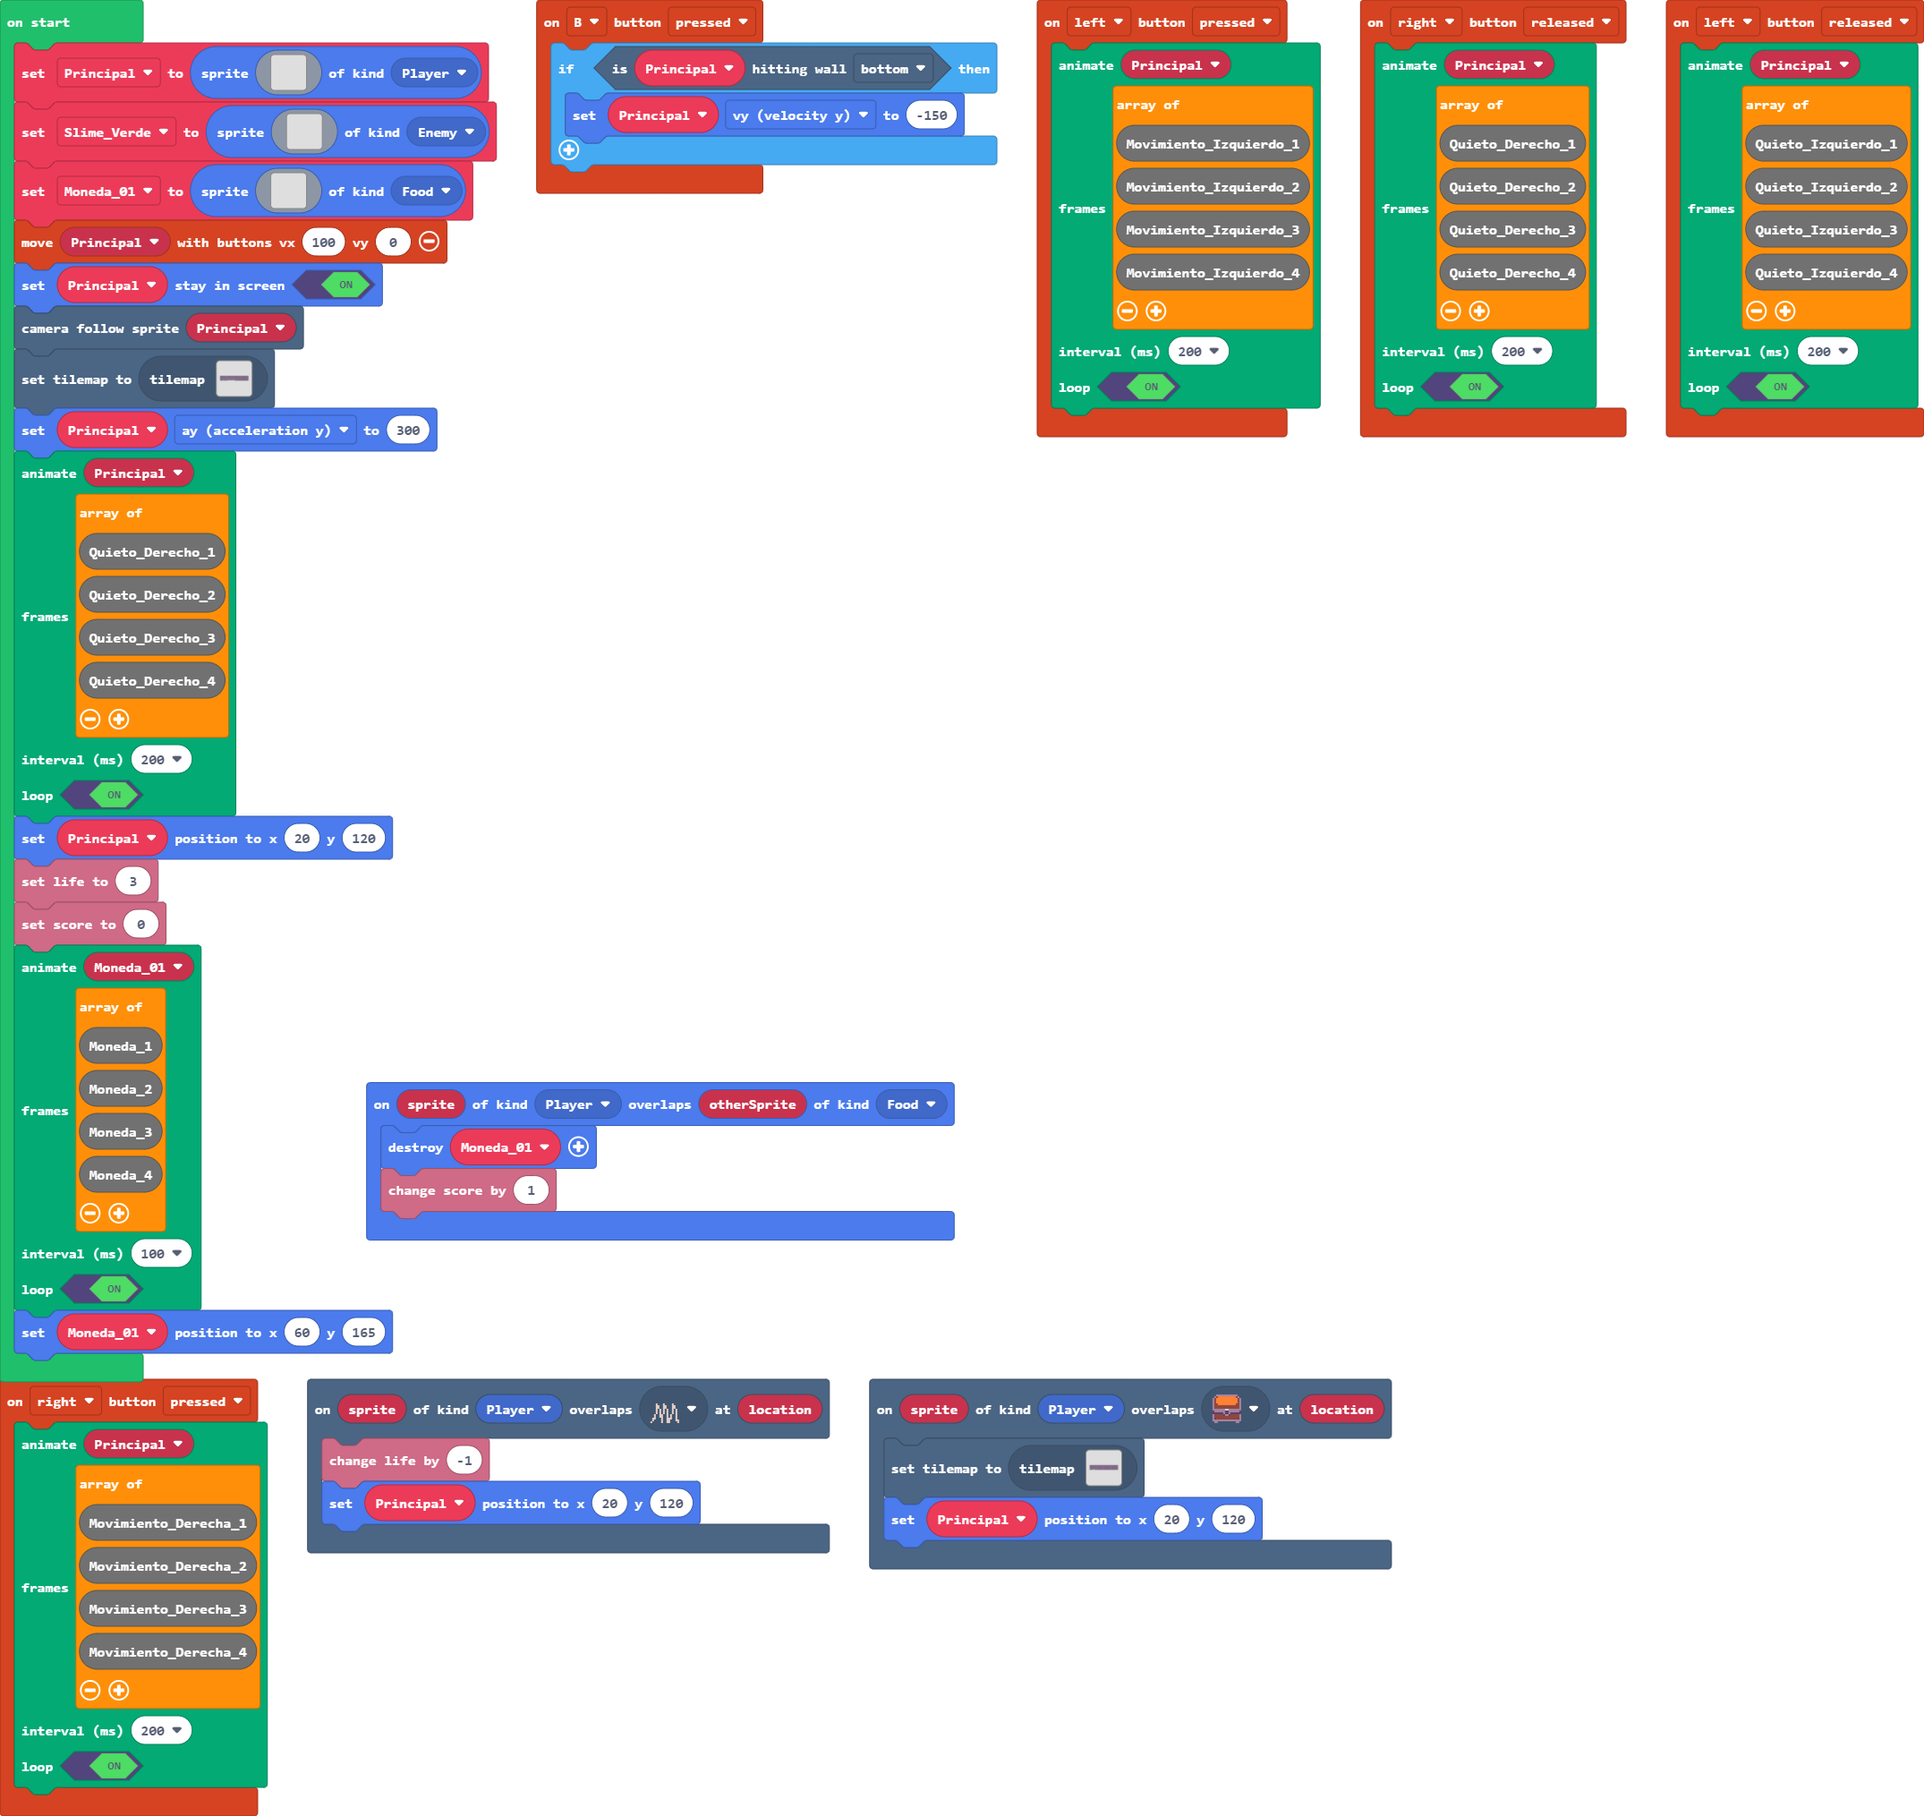
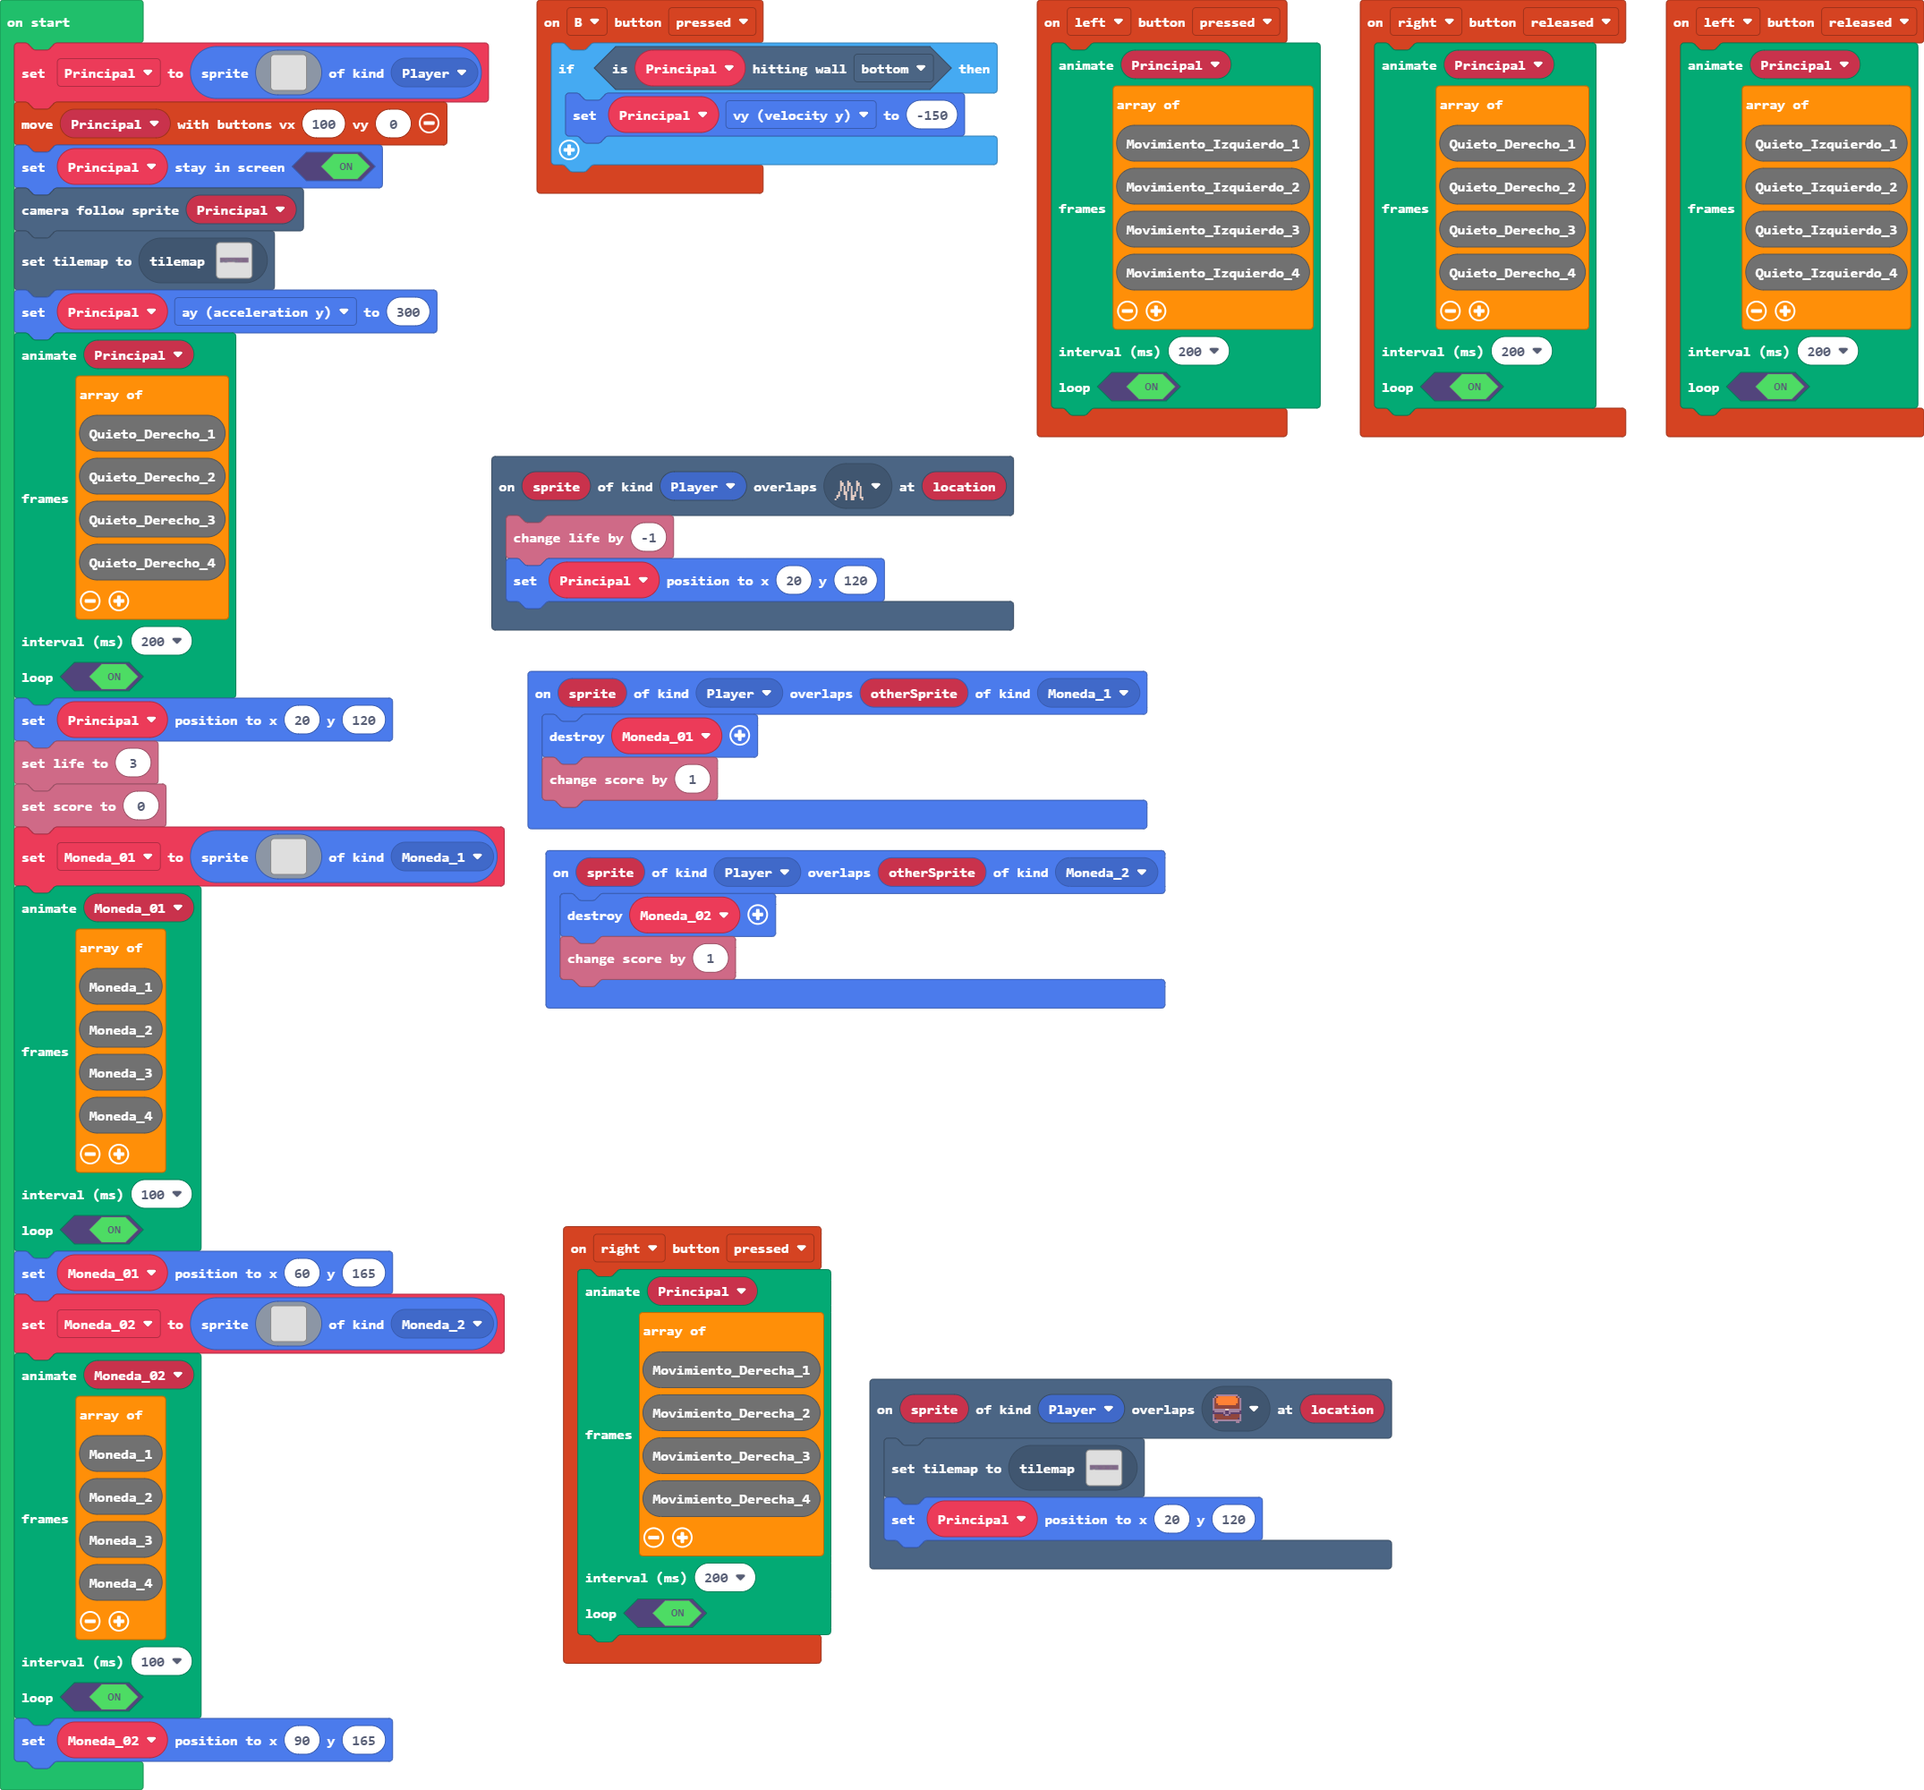
Update main.blocks, main.ts, tilemap.g.jres, tilemap.g.ts

diff --git a/tilemap.g.ts b/tilemap.g.ts
@@ -102,25 +102,6 @@ namespace myTiles {
 . . . . . . . . . . . . . . . . 
 . . . . . . . . . . . . . . . . 
 `, [myTiles.transparency16], TileScale.Sixteen);
-            case "Nivel 1":
[1 lines of base64/hex data omitted]
-....................................................................................................
-....................................................................................................
-....................................................................................................
-....................................................................................................
-....................................................................................................
-....................................................................................................
-....................................................................................................
-....................................222222..........................................................
-....................................222222..........................................................
-............................222222..................................................................
-............................222222..................................................................
-22222222222....22222222222..................222222..22222222222.....................................
-..........2....2.........2..................222222..2.........2.....................................
-..........2....2.........2..........................2.........2.....................................
-..........2....2.........2..........................2.........2.....................................
-..........2....2.........2..........................2.........2.....................................
-`, [myTiles.transparency16,sprites.dungeon.greenOuterNorthWest,sprites.dungeon.greenOuterWest0,sprites.dungeon.greenOuterNorth0,sprites.dungeon.greenOuterNorthEast,sprites.dungeon.greenOuterEast0,sprites.dungeon.greenOuterSouthEast,sprites.dungeon.greenOuterSouthWest,sprites.dungeon.greenOuterSouth0,sprites.dungeon.darkGroundCenter,sprites.dungeon.chestClosed,myTiles.tile1], TileScale.Sixteen);
             case "level7":
             case "level7":return tiles.createTilemap(hex`1000100000000000000000000000000000000000000000000000000000000000000000000000000000000000000000000000000000000000000000000000000000000000000000000000000000000000000000000000000000000000000000000000000000000000000000000000000000000000000000000000000000000000000000000000000000000000000000000000000000000000000000000000000000000000000000000000000000000000000000000000000000000000000000000000000000000000000000000000000000000000000000000000000000000000000000000000000000000000000000000000000000000000000000000000000000000000`, img`
 . . . . . . . . . . . . . . . . 
@@ -159,6 +140,82 @@ namespace myTiles {
 ...........2......2..........2......................................................................
 ...........2......2..........2......................................................................
 `, [myTiles.transparency16,myTiles.tile1,sprites.dungeon.darkGroundCenter,sprites.dungeon.greenOuterNorthWest,sprites.dungeon.greenOuterNorth0,sprites.dungeon.greenOuterNorthEast,sprites.dungeon.greenOuterWest1,sprites.dungeon.greenOuterEast0], TileScale.Sixteen);
+            case "level9":
+            case "level9":return tiles.createTilemap(hex`1000100000000000000000000000000000000000000000000000000000000000000000000000000000000000000000000000000000000000000000000000000000000000000000000000000000000000000000000000000000000000000000000000000000000000000000000000000000000000000000000000000000000000000000000000000000000000000000000000000000000000000000000000000000000000000000000000000000000000000000000000000000000000000000000000000000000000000000000000000000000000000000000000000000000000000000000000000000000000000000000000000000000000000000000000000000000000`, img`
+. . . . . . . . . . . . . . . . 
+. . . . . . . . . . . . . . . . 
+. . . . . . . . . . . . . . . . 
+. . . . . . . . . . . . . . . . 
+. . . . . . . . . . . . . . . . 
+. . . . . . . . . . . . . . . . 
+. . . . . . . . . . . . . . . . 
+. . . . . . . . . . . . . . . . 
+. . . . . . . . . . . . . . . . 
+. . . . . . . . . . . . . . . . 
+. . . . . . . . . . . . . . . . 
+. . . . . . . . . . . . . . . . 
+. . . . . . . . . . . . . . . . 
+. . . . . . . . . . . . . . . . 
+. . . . . . . . . . . . . . . . 
+. . . . . . . . . . . . . . . . 
+`, [myTiles.transparency16], TileScale.Sixteen);
+            case "level10":
+            case "level10":return tiles.createTilemap(hex`1000100000000000000000000000000000000000000000000000000000000000000000000000000000000000000000000000000000000000000000000000000000000000000000000000000000000000000000000000000000000000000000000000000000000000000000000000000000000000000000000000000000000000000000000000000000000000000000000000000000000000000000000000000000000000000000000000000000000000000000000000000000000000000000000000000000000000000000000000000000000000000000000000000000000000000000000000000000000000000000000000000000000000000000000000000000000000`, img`
+. . . . . . . . . . . . . . . . 
+. . . . . . . . . . . . . . . . 
+. . . . . . . . . . . . . . . . 
+. . . . . . . . . . . . . . . . 
+. . . . . . . . . . . . . . . . 
+. . . . . . . . . . . . . . . . 
+. . . . . . . . . . . . . . . . 
+. . . . . . . . . . . . . . . . 
+. . . . . . . . . . . . . . . . 
+. . . . . . . . . . . . . . . . 
+. . . . . . . . . . . . . . . . 
+. . . . . . . . . . . . . . . . 
+. . . . . . . . . . . . . . . . 
+. . . . . . . . . . . . . . . . 
+. . . . . . . . . . . . . . . . 
+. . . . . . . . . . . . . . . . 
+`, [myTiles.transparency16], TileScale.Sixteen);
+            case "Nivel 1":
[1 lines of base64/hex data omitted]
+....................................................................................................
+....................................................................................................
+....................................................................................................
+....................................................................................................
+....................................................................................................
+....................................................................................................
+....................................................................................................
+....................................222222..........................................................
+....................................222222..........................................................
+............................222222..................................................................
+............................222222..................................................................
+22222222222....22222222222..................222222..22222222222.....................................
+..........2....2.........2..................222222..2.........2.....................................
+..........2....2.........2..........................2.........2.....................................
+..........2....2.........2..........................2.........2.....................................
+..........2....2.........2..........................2.........2.....................................
+`, [myTiles.transparency16,sprites.dungeon.greenOuterNorthWest,sprites.dungeon.greenOuterWest0,sprites.dungeon.greenOuterNorth0,sprites.dungeon.greenOuterNorthEast,sprites.dungeon.greenOuterEast0,sprites.dungeon.greenOuterSouthEast,sprites.dungeon.greenOuterSouthWest,sprites.dungeon.greenOuterSouth0,sprites.dungeon.darkGroundCenter,sprites.dungeon.chestClosed,myTiles.tile1], TileScale.Sixteen);
+            case "level11":
+            case "level11":return tiles.createTilemap(hex`1000100000000000000000000000000000000000000000000000000000000000000000000000000000000000000000000000000000000000000000000000000000000000000000000000000000000000000000000000000000000000000000000000000000000000000000000000000000000000000000000000000000000000000000000000000000000000000000000000000000000000000000000000000000000000000000000000000000000000000000000000000000000000000000000000000000000000000000000000000000000000000000000000000000000000000000000000000000000000000000000000000000000000000000000000000000000000`, img`
+. . . . . . . . . . . . . . . . 
+. . . . . . . . . . . . . . . . 
+. . . . . . . . . . . . . . . . 
+. . . . . . . . . . . . . . . . 
+. . . . . . . . . . . . . . . . 
+. . . . . . . . . . . . . . . . 
+. . . . . . . . . . . . . . . . 
+. . . . . . . . . . . . . . . . 
+. . . . . . . . . . . . . . . . 
+. . . . . . . . . . . . . . . . 
+. . . . . . . . . . . . . . . . 
+. . . . . . . . . . . . . . . . 
+. . . . . . . . . . . . . . . . 
+. . . . . . . . . . . . . . . . 
+. . . . . . . . . . . . . . . . 
+. . . . . . . . . . . . . . . . 
+`, [myTiles.transparency16], TileScale.Sixteen);
         }
         return null;
     })

diff --git a/main.ts b/main.ts
@@ -1,11 +1,11 @@
+namespace SpriteKind {
+    export const Moneda_1 = SpriteKind.create()
+    export const Moneda_2 = SpriteKind.create()
+}
 controller.B.onEvent(ControllerButtonEvent.Pressed, function () {
     if (Principal.isHittingTile(CollisionDirection.Bottom)) {
         Principal.vy = -150
     }
-})
-scene.onOverlapTile(SpriteKind.Player, assets.tile`myTile`, function (sprite, location) {
-    info.changeLifeBy(-1)
-    Principal.setPosition(20, 120)
 })
 controller.left.onEvent(ControllerButtonEvent.Pressed, function () {
     animation.runImageAnimation(
@@ -63,10 +63,15 @@ controller.right.onEvent(ControllerButtonEvent.Pressed, function () {
     true
     )
 })
-sprites.onOverlap(SpriteKind.Player, SpriteKind.Food, function (sprite, otherSprite) {
+sprites.onOverlap(SpriteKind.Player, SpriteKind.Moneda_1, function (sprite, otherSprite) {
     sprites.destroy(Moneda_01)
     info.changeScoreBy(1)
 })
+sprites.onOverlap(SpriteKind.Player, SpriteKind.Moneda_2, function (sprite, otherSprite) {
+    sprites.destroy(Moneda_02)
+    info.changeScoreBy(1)
+})
+let Moneda_02: Sprite = null
 let Moneda_01: Sprite = null
 let Principal: Sprite = null
 Principal = sprites.create(img`
@@ -87,42 +92,6 @@ Principal = sprites.create(img`
     . . . . . . . . . . . . . . . . 
     . . . . . . . . . . . . . . . . 
     `, SpriteKind.Player)
-let Slime_Verde = sprites.create(img`
-    . . . . . . . . . . . . . . . . 
-    . . . . . . . . . . . . . . . . 
-    . . . . . . . . . . . . . . . . 
-    . . . . . . . . . . . . . . . . 
-    . . . . . . . . . . . . . . . . 
-    . . . . . . . . . . . . . . . . 
-    . . . . . . . . . . . . . . . . 
-    . . . . . . . . . . . . . . . . 
-    . . . . . . . . . . . . . . . . 
-    . . . . . . . . . . . . . . . . 
-    . . . . . . . . . . . . . . . . 
-    . . . . . . . . . . . . . . . . 
-    . . . . . . . . . . . . . . . . 
-    . . . . . . . . . . . . . . . . 
-    . . . . . . . . . . . . . . . . 
-    . . . . . . . . . . . . . . . . 
-    `, SpriteKind.Enemy)
-Moneda_01 = sprites.create(img`
-    . . . . . . . . . . . . . . . . 
-    . . . . . . . . . . . . . . . . 
-    . . . . . . . . . . . . . . . . 
-    . . . . . . . . . . . . . . . . 
-    . . . . . . . . . . . . . . . . 
-    . . . . . . . . . . . . . . . . 
-    . . . . . . . . . . . . . . . . 
-    . . . . . . . . . . . . . . . . 
-    . . . . . . . . . . . . . . . . 
-    . . . . . . . . . . . . . . . . 
-    . . . . . . . . . . . . . . . . 
-    . . . . . . . . . . . . . . . . 
-    . . . . . . . . . . . . . . . . 
-    . . . . . . . . . . . . . . . . 
-    . . . . . . . . . . . . . . . . 
-    . . . . . . . . . . . . . . . . 
-    `, SpriteKind.Food)
 controller.moveSprite(Principal, 100, 0)
 Principal.setStayInScreen(true)
 scene.cameraFollowSprite(Principal)
@@ -142,6 +111,24 @@ true
 Principal.setPosition(20, 120)
 info.setLife(3)
 info.setScore(0)
+Moneda_01 = sprites.create(img`
+    . . . . . . . . . . . . . . . . 
+    . . . . . . . . . . . . . . . . 
+    . . . . . . . . . . . . . . . . 
+    . . . . . . . . . . . . . . . . 
+    . . . . . . . . . . . . . . . . 
+    . . . . . . . . . . . . . . . . 
+    . . . . . . . . . . . . . . . . 
+    . . . . . . . . . . . . . . . . 
+    . . . . . . . . . . . . . . . . 
+    . . . . . . . . . . . . . . . . 
+    . . . . . . . . . . . . . . . . 
+    . . . . . . . . . . . . . . . . 
+    . . . . . . . . . . . . . . . . 
+    . . . . . . . . . . . . . . . . 
+    . . . . . . . . . . . . . . . . 
+    . . . . . . . . . . . . . . . . 
+    `, SpriteKind.Moneda_1)
 animation.runImageAnimation(
 Moneda_01,
 [
@@ -154,3 +141,33 @@ Moneda_4
 true
 )
 Moneda_01.setPosition(60, 165)
+Moneda_02 = sprites.create(img`
+    . . . . . . . . . . . . . . . . 
+    . . . . . . . . . . . . . . . . 
+    . . . . . . . . . . . . . . . . 
+    . . . . . . . . . . . . . . . . 
+    . . . . . . . . . . . . . . . . 
+    . . . . . . . . . . . . . . . . 
+    . . . . . . . . . . . . . . . . 
+    . . . . . . . . . . . . . . . . 
+    . . . . . . . . . . . . . . . . 
+    . . . . . . . . . . . . . . . . 
+    . . . . . . . . . . . . . . . . 
+    . . . . . . . . . . . . . . . . 
+    . . . . . . . . . . . . . . . . 
+    . . . . . . . . . . . . . . . . 
+    . . . . . . . . . . . . . . . . 
+    . . . . . . . . . . . . . . . . 
+    `, SpriteKind.Moneda_2)
+animation.runImageAnimation(
+Moneda_02,
+[
+Moneda_1,
+Moneda_2,
+Moneda_3,
+Moneda_4
+],
+100,
+true
+)
+Moneda_02.setPosition(90, 165)
